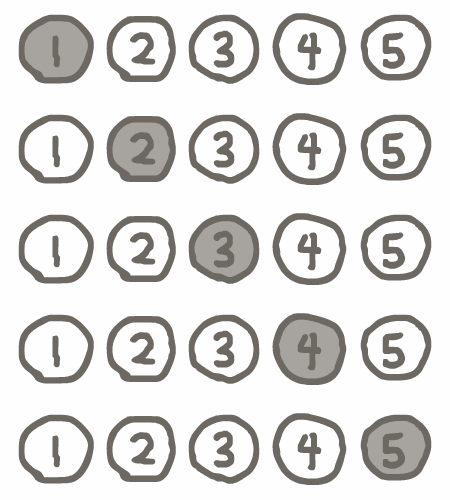
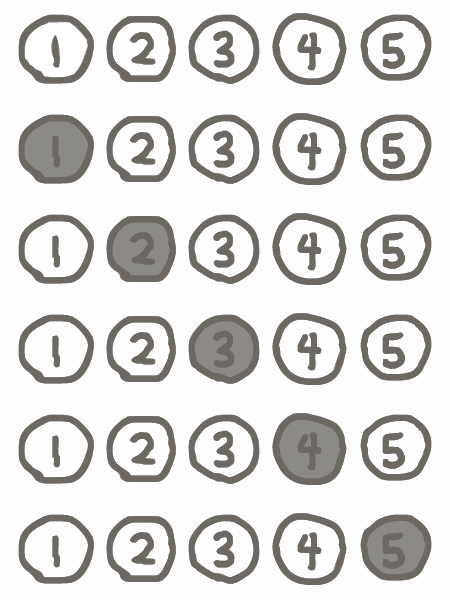
moving from 1:5 to 0:5 scale and 1:3 to 0:2 scale.

diff --git a/play/js/Voters.js b/play/js/Voters.js
@@ -201,18 +201,23 @@ function dostrategy(x,y,minscore,maxscore,rangescore,strategy,lastwinner,frontru
 			} else if (strategy == "normalize frontrunners only" || strategy == "starnormfrontrunners") {
 				var fnorm = 1/ (maxfront-minfront);
 				var normit = function(d) {return (d-minfront)*fnorm;}
-				if (strategy == "starnormfrontrunners") maxscore--;
 				var gs = function(d) { return minscore+Math.round((maxscore-minscore)*(1-normit(d))); }
 				var thresholdit = function(d) {return (d<=minfront) ? maxscore : (d>=maxfront) ? minscore : gs(d)}
 				radiusFirst = minfront;
-				radiusLast = maxfront; 
-			}
+				radiusLast = maxfront;
+							}
 		}
 		var scores2 = dista.map(thresholdit);
 		var assignit = function(d,i) { scores[ candidates[i].id ] = d; }
 		scores2.map(assignit)
-		if (strategy == "starnormfrontrunners") maxscore++;
 		scores[mini] = maxscore;
+		if (strategy == "starnormfrontrunners") {
+			for(i in candidates){
+				var c = candidates[i].id
+				if (scores[c]==maxscore && c!=mini) {
+					scores[c]=maxscore-1;
+		}}}
+
 
 	}// otherwise, there is no strategy strategy == "no strategy. judge on an absolute scale."
 		
@@ -230,7 +235,10 @@ function ScoreVoter(model){
 
 	var self = this;
 	self.model = model;
-
+	var maxscore = 5;
+	var minscore = 0;
+	var scorearray = [];
+	for (var i=minscore; i<= maxscore; i++) scorearray.push(i)
 	self.radiusStep = window.HACK_BIG_RANGE ? 61 : 25; // step: x<25, 25<x<50, 50<x<75, 75<x<100, 100<x
 
 	self.getScore = function(x2){
@@ -245,9 +253,8 @@ function ScoreVoter(model){
 
 	self.getBallot = function(x, y, strategy, config){
 
-		
 		self.model.idlastwinner = "square"
-		var scoresfirstlast = dostrategy(x,y,1,5,[1,2,3,4,5],strategy,self.model.idlastwinner,self.model.frontrunnerSet,self.model.candidates,self.radiusStep,self.getScore)
+		var scoresfirstlast = dostrategy(x,y,minscore,maxscore,scorearray,strategy,self.model.idlastwinner,self.model.frontrunnerSet,self.model.candidates,self.radiusStep,self.getScore)
 		
 		self.radiusFirst = scoresfirstlast.radiusFirst
 		self.radiusLast = scoresfirstlast.radiusLast
@@ -262,12 +269,12 @@ function ScoreVoter(model){
 		// RETINA
 		x = x*2;
 		y = y*2;
-		
-		var step = (self.radiusLast - self.radiusFirst)/4;
+		var scorange = maxscore - minscore
+		var step = (self.radiusLast - self.radiusFirst)/scorange;
 		// Draw big ol' circles.
-		for(var i=1;i<5;i++){
+		for(var i=0;i<scorange;i++){
 			ctx.beginPath();
-			ctx.arc(x, y, (step*(i-.5) + self.radiusFirst)*2, 0, Math.TAU, false);
+			ctx.arc(x, y, (step*(i+.5) + self.radiusFirst)*2, 0, Math.TAU, false);
 			ctx.lineWidth = (5-i)*2;
 			ctx.strokeStyle = "#888";
 			ctx.setLineDash([]);
@@ -281,8 +288,6 @@ function ScoreVoter(model){
 
 		// There are #Candidates*5 slices
 		// Fill 'em in in order -- and the rest is gray.
-		var maxscore = 5;
-		var minscore = 0;
 		var totalSlices = self.model.candidates.length*(maxscore-minscore);
 		var leftover = totalSlices;
 		var slices = [];
@@ -312,7 +317,10 @@ function ThreeVoter(model){
 
 	var self = this;
 	self.model = model;
-
+	var maxscore = 2;
+	var minscore = 0;
+	var scorearray = [];
+	for (var i=minscore; i<= maxscore; i++) scorearray.push(i)
 	self.radiusStep = window.HACK_BIG_RANGE ? 61 : 25; // step: x<25, 25<x<50, 50<x<75, 75<x<100, 100<x
 
 	self.getScore = function(x2){
@@ -322,13 +330,17 @@ function ThreeVoter(model){
 		return 0;
 	};
 
-	self.getBallot = function(x, y, strategy,  config){
+	self.getBallot = function(x, y, strategy, config){
 
 		self.model.idlastwinner = "square"
-		var scoresfirstlast = dostrategy(x,y,0,2,[0,1,2],strategy,self.model.idlastwinner,self.model.frontrunnerSet,self.model.candidates,self.radiusStep,self.getScore)
+		var scoresfirstlast = dostrategy(x,y,minscore,maxscore,scorearray,strategy,self.model.idlastwinner,self.model.frontrunnerSet,self.model.candidates,self.radiusStep,self.getScore)
+		
+		self.radiusFirst = scoresfirstlast.radiusFirst
+		self.radiusLast = scoresfirstlast.radiusLast
+		self.dottedCircle = scoresfirstlast.dottedCircle
 		var scores = scoresfirstlast.scores
 		return scores
-
+		
 	};
 
 	self.drawBG = function(ctx, x, y, ballot){
@@ -336,13 +348,16 @@ function ThreeVoter(model){
 		// RETINA
 		x = x*2;
 		y = y*2;
-
+		var scorange = maxscore - minscore
+		var step = (self.radiusLast - self.radiusFirst)/scorange;
 		// Draw big ol' circles.
-		for(var i=1;i<5;i++){
+		for(var i=0;i<scorange;i++){
 			ctx.beginPath();
-			ctx.arc(x, y, (self.radiusStep*i)*2, 0, Math.TAU, false);
+			ctx.arc(x, y, (step*(i+.5) + self.radiusFirst)*2, 0, Math.TAU, false);
 			ctx.lineWidth = (5-i)*2;
 			ctx.strokeStyle = "#888";
+			ctx.setLineDash([]);
+			if (self.dottedCircle) ctx.setLineDash([5, 15]);
 			ctx.stroke();
 		}
 
@@ -352,13 +367,13 @@ function ThreeVoter(model){
 
 		// There are #Candidates*5 slices
 		// Fill 'em in in order -- and the rest is gray.
-		var totalSlices = self.model.candidates.length*2;
+		var totalSlices = self.model.candidates.length*(maxscore-minscore);
 		var leftover = totalSlices;
 		var slices = [];
 		for(var i=0; i<self.model.candidates.length; i++){
 			var c = self.model.candidates[i];
 			var cID = c.id;
-			var score = ballot[cID];
+			var score = ballot[cID] - minscore;
 			leftover -= score;
 			slices.push({
 				num: score,

diff --git a/play/js/Ballot.js b/play/js/Ballot.js
@@ -24,7 +24,7 @@ function ScoreBallot(config){
 	self.update = function(ballot){
 		for(var cID in ballot){
 			var score = ballot[cID];
-			self.boxes[cID].gotoFrame(score-1);
+			self.boxes[cID].gotoFrame(score);
 		}
 	};
 
@@ -48,7 +48,7 @@ function ThreeBallot(config){
 	self.update = function(ballot){
 		for(var cID in ballot){
 			var score = ballot[cID];
-			self.boxes[cID].gotoFrame(score-1+1);
+			self.boxes[cID].gotoFrame(score);
 		}
 	};
 

diff --git a/play/js/main_ballot.js b/play/js/main_ballot.js
@@ -85,8 +85,8 @@ function main(config){
 				{name:h1("square"),realname:"square",margin:4},
 				{name:h1("triangle"),realname:"triangle",margin:4},
 				{name:h1("hexagon"),realname:"hexagon",margin:4},
-				{name:h1("pentagon"),realname:"pentagon",margin:4},
-				{name:h1("bob"),realname:"bob"}
+				//{name:h1("pentagon"),realname:"pentagon",margin:4},
+				//{name:h1("bob"),realname:"bob"}
 			];
 			var onChooseFrun = function(data){
 				
